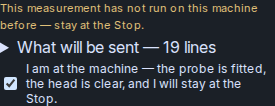
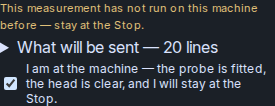
test(#1202): firstRun1202 walks the Register card's registration routine
#1201 retired the seat press from this card — the seat is a bed-setup datum
in Manage now, and the card REGISTERS. Both walks retargeted to it:
  - data-routine 'registration' (the card's dry list), and the completion
    poll records routine 'registration' with the shown shape;
  - after the press, the card's own completion statement is the verdict
    ("The surface was found…"), not the seat note — this card has no seat
    note any more;
  - the press seeds the house fixture's own blank top under the plan's
    touch points and answers the executor's clamp-confirmation prompt;
  - the identity is read after the preview settles (two equal reads), as
    the card re-derives its plan when the machine record arrives.

The mark/tick, shown==sent and the unmark/re-mark halves are unchanged.
Both tests pass on the desktop bundle with the fake console (2 passed).

Changed region(s): [[0.5818, 0.3679, 0.8145, 0.5094]]

diff --git a/casemaker-app/tests/e2e/firstRun1202.spec.ts b/casemaker-app/tests/e2e/firstRun1202.spec.ts
@@ -1,15 +1,17 @@
 // #1202 + #1199 item 3, on the fake machine — THE FIRST-RUN GUARD AND THE SHOWN LINE LIST.
 //
-// The 2026-11-10 seat press had never moved this controller, nothing said so, and the sequence was
-// never shown. This walk pins the three facts the analyst asked for, on the bench's own seat press:
+// The 2026-11-10 accident had never moved this controller, nothing said so, and the sequence was
+// never shown. This walk pins the three facts the analyst asked for, on the REGISTER card's own
+// routine (#1201 retired the seat press from this card — the seat is a bed-setup datum now):
 //   1. a routine this machine has never completed is MARKED before the press and needs its own
 //      at-machine statement — even though Cut step 1's statement is already given;
 //   2. a recorded completion (the machine record's completedRoutines, seeded here) unmarks it; a
 //      DIFFERENT shape re-marks it;
 //   3. the lines the card SHOWS are the lines the fake console RECEIVES, in order.
 //
-// The house and console are the shared fixtures; the location is the bench's own without the seat
-// datum, so the planner proposes the one-touch seat press (the accident's routine).
+// The house and console are the shared fixtures; the location is the bench's own with the bracket
+// on anchor 1 and no recorded seat, so the planner proposes the registration (the surface find,
+// X and Y taken from the bracket).
 import fs from 'node:fs';
 import path from 'node:path';
 import { lanServerPort } from '../../scripts/e2ePort';
@@ -23,7 +25,7 @@ test.setTimeout(420_000);
 
 const OUT = path.resolve(process.cwd(), '..', 'docs', 'bench', 'img', '2026-11-11-1202-first-run');
 
-/** The bench's location with the bracket on anchor 1 and NO recorded seat: the seat press's case. */
+/** The bench's location with the bracket on anchor 1 and NO recorded seat: the Register card's case. */
 function benchLocationWithoutSeat(): Json {
   const doc = locationDocument();
   const machine = doc.machines[0]!;
@@ -75,9 +77,9 @@ async function rememberMachine(page: Page): Promise<void> {
   }, STATUS);
 }
 
-/** The wizard walk up to the Cut card's seat proposal (no generate needed: the seat plan comes
+/** The wizard walk up to the Cut card's registration proposal (no generate needed: the plan comes
  *  from the machine's own record and the job's stock). */
-async function openSeatProposal(page: Page): Promise<void> {
+async function openRegistrationProposal(page: Page): Promise<void> {
   await rememberMachine(page);
   await page.getByTestId('welcome-start-cnc').click();
   await page.getByTestId('start-wizard-next').click();
@@ -132,6 +134,23 @@ async function openCutRegistration(page: Page): Promise<void> {
   }
 }
 
+/**
+ * The preview's SETTLED identity: read until two consecutive reads agree. The card derives its plan
+ * after the machine record arrives, and re-derives the dry list when the plan object changes; the
+ * press records the identity of the list the card showed.
+ */
+async function settledShape(page: Page): Promise<string> {
+  const routine = page.getByTestId('engrave-registration-routine');
+  let previous: string | null = null;
+  for (let i = 0; i < 120; i += 1) {
+    const now = await routine.getAttribute('data-shape');
+    if (now !== null && now === previous) return now;
+    previous = now;
+    await page.waitForTimeout(500);
+  }
+  throw new Error('the card’s preview never settled');
+}
+
 /** The preview's shown lines, in order, from the DOM. */
 async function shownLines(page: Page): Promise<string[]> {
   return page.evaluate(() =>
@@ -180,17 +199,15 @@ test('#1202 — a routine that has never run here is marked, shown, and its show
   await page.route('**/api/v1/defaults/**', async (route) => {
     return route.fulfill({ status: 200, contentType: 'application/json', body: '{"ok":true}' });
   });
-  // DEBUG — log every machine PUT (fallback to the fixture's own handler).
   const fake: FakeConsole = await installFakeConsole(page, { steps: 20 });
   await cm.ready();
-  await openSeatProposal(page);
+  await openRegistrationProposal(page);
 
   // 1. THE MARK, before the press: the routine has never completed here, so the card says so and
   //    holds the press even though Cut step 1's statement is already given.
   const routine = page.getByTestId('engrave-registration-routine');
   await expect(routine).toBeVisible({ timeout: 60_000 });
-  await expect(routine).toHaveAttribute('data-routine', 'seat-press');
-  const shape = await routine.getAttribute('data-shape');
+  const shape = await settledShape(page);
   expect(shape, 'the routine identity is named on the card').toMatch(/^[0-9a-f]{8}$/);
   await expect(page.getByTestId('engrave-registration-first-run')).toContainText(
     'has not run on this machine before',
@@ -212,19 +229,17 @@ test('#1202 — a routine that has never run here is marked, shown, and its show
   fs.mkdirSync(OUT, { recursive: true });
   await routine.screenshot({ path: path.join(OUT, 'first-run-marked.png') });
 
-  // 3. THE PRESS: the fake plays a boss at the tap point so the touch reads, and the run completes.
-  // The probe's own descent: the LAST Z and XY moves before the G38.3 (the first ones are the
-  // clearance traverse, which runs at the machine's clearance position, not at the seat).
-  const probeAt = lines.findIndex((l) => l.startsWith('G38.3'));
-  const before = lines.slice(0, probeAt);
-  const approach = /^G53 G0 Z(-?[\d.]+)$/.exec([...before].reverse().find((l) => /^G53 G0 Z/.test(l)) ?? '');
-  const seek = /^G38\.3 Z-([\d.]+)/.exec(lines[probeAt] ?? '');
-  const xy = /^G53 G0 X(-?[\d.]+) Y(-?[\d.]+)$/.exec([...before].reverse().find((l) => /^G53 G0 X/.test(l)) ?? '');
-  if (approach === null || seek === null || xy === null) throw new Error('the shown list lacks the seat move');
-  const top = Number(approach[1]) - Number(seek[1]) / 2;
-  fake.setFeature({ kind: 'boss', centre: { x: Number(xy[1]), y: Number(xy[2]) }, radiusMm: 40, topZ: top });
+  // 3. THE PRESS: the fake plays a boss at the surface point so the touch reads, and the run
+  // completes. The probe's own descent: the LAST Z and XY moves before the G38.3 (the first ones
+  // are the clearance traverse, which runs at the machine's clearance position, not at the point).
+  // The same boss the #1179 registrations run against: the house fixture's own blank top, wide
+  // enough to sit under BOTH of the plan's touches at machine (-158.3, -176.3) and (-140, -163).
+  fake.setFeature({ kind: 'boss', radiusMm: 400, centre: { x: -140, y: -163 }, topZ: -60.788 });
   await approve.click();
-  await expect(page.getByTestId('engrave-registration-seat-note')).toContainText('the bracket seat is recorded', {
+  await page.getByTestId('engrave-registration-continue').click({ timeout: 60_000 });
+  // THE CARD'S OWN COMPLETION STATEMENT: the run read the surface (X and Y are the bracket's,
+  // taken on trust — this plan makes no confirming lateral touch).
+  await expect(page.getByTestId('engrave-registration-verdict')).toContainText('surface was found', {
     timeout: 180_000,
   });
 
@@ -237,13 +252,14 @@ test('#1202 — a routine that has never run here is marked, shown, and its show
     at = found + 1;
   }
 
-  // 4. THE RECORD: the completion lands on the machine (the seat press's own identity) — folded
-  //    into the datum write, so the served document carries it as soon as the save answers.
+  // 4. THE RECORD: the completion lands on the machine (the registration's own identity) — written
+  //    once the run finished without a stop, so the served document carries it as soon as the save
+  //    answers.
   await expect
     .poll(
       () =>
         ((house.machine()['completedRoutines'] ?? []) as { routine?: string; shape?: string }[]).some(
-          (e) => e.routine === 'seat-press' && e.shape === shape,
+          (e) => e.routine === 'registration' && e.shape === shape,
         ),
       { timeout: 15_000 },
     )
@@ -251,7 +267,7 @@ test('#1202 — a routine that has never run here is marked, shown, and its show
 
 });
 
-// THE RELOAD HALF. Once the seat routine is recorded, a fresh card for the SAME routine is
+// THE RELOAD HALF. Once the registration routine is recorded, a fresh card for the SAME routine is
 // unmarked and its press available; a changed sequence (the same id, a different shape) is a NEW
 // routine and re-marks it. This walk was parked while the write-through dropped `completedRoutines`
 // on every status tick — the merge fix it now covers (#1202, `mergeMachine` spreads the served
@@ -272,12 +288,12 @@ test('the same card is unmarked once its routine is recorded, and a changed shap
     route.fulfill({ status: 200, contentType: 'application/json', body: '{"ok":true}' }),
   );
   await cm.ready();
-  await openSeatProposal(page);
+  await openRegistrationProposal(page);
 
-  // The seat press's identity, as the card shows it, and its first-run mark.
+  // The registration routine's identity, as the card shows it, and its first-run mark.
   const routine = page.getByTestId('engrave-registration-routine');
-  await expect(routine).toHaveAttribute('data-routine', 'seat-press', { timeout: 60_000 });
-  const shape = await routine.getAttribute('data-shape');
+  await expect(routine).toHaveAttribute('data-routine', 'registration', { timeout: 60_000 });
+  const shape = await settledShape(page);
   expect(shape).toMatch(/^[0-9a-f]{8}$/);
   await expect(page.getByTestId('engrave-registration-first-run')).toContainText('has not run on this machine before');
 
@@ -286,19 +302,19 @@ test('the same card is unmarked once its routine is recorded, and a changed shap
   await page.goto('/');
   await cm.ready();
   await seedCompletions(page, [
-    { routine: 'seat-press', shape, at: new Date().toISOString(), build: { version: '1.0.0', commit: null } },
+    { routine: 'registration', shape, at: new Date().toISOString(), build: { version: '1.0.0', commit: null } },
   ]);
   await page.goto('/');
   await cm.ready();
   await openCutRegistration(page);
-  await expect(page.getByTestId('engrave-registration-routine')).toHaveAttribute('data-shape', shape!, { timeout: 60_000 });
+  await expect(page.getByTestId('engrave-registration-routine')).toHaveAttribute('data-shape', shape!, { timeout: 120_000 });
   await expect(page.getByTestId('engrave-registration-first-run')).toHaveCount(0);
 
   // A CHANGED SEQUENCE — the same routine id under a different shape — is a new routine: re-marked.
   await page.goto('/');
   await cm.ready();
   await seedCompletions(page, [
-    { routine: 'seat-press', shape: 'deadbeef', at: new Date().toISOString(), build: { version: '1.0.0', commit: null } },
+    { routine: 'registration', shape: 'deadbeef', at: new Date().toISOString(), build: { version: '1.0.0', commit: null } },
   ]);
   await page.goto('/');
   await cm.ready();
